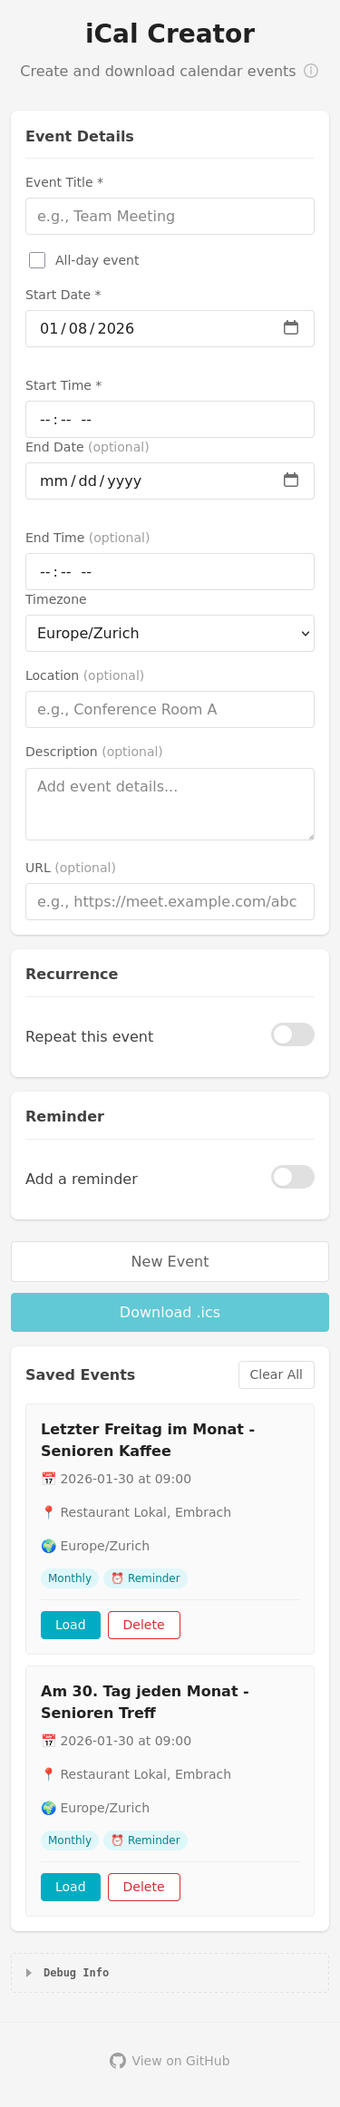
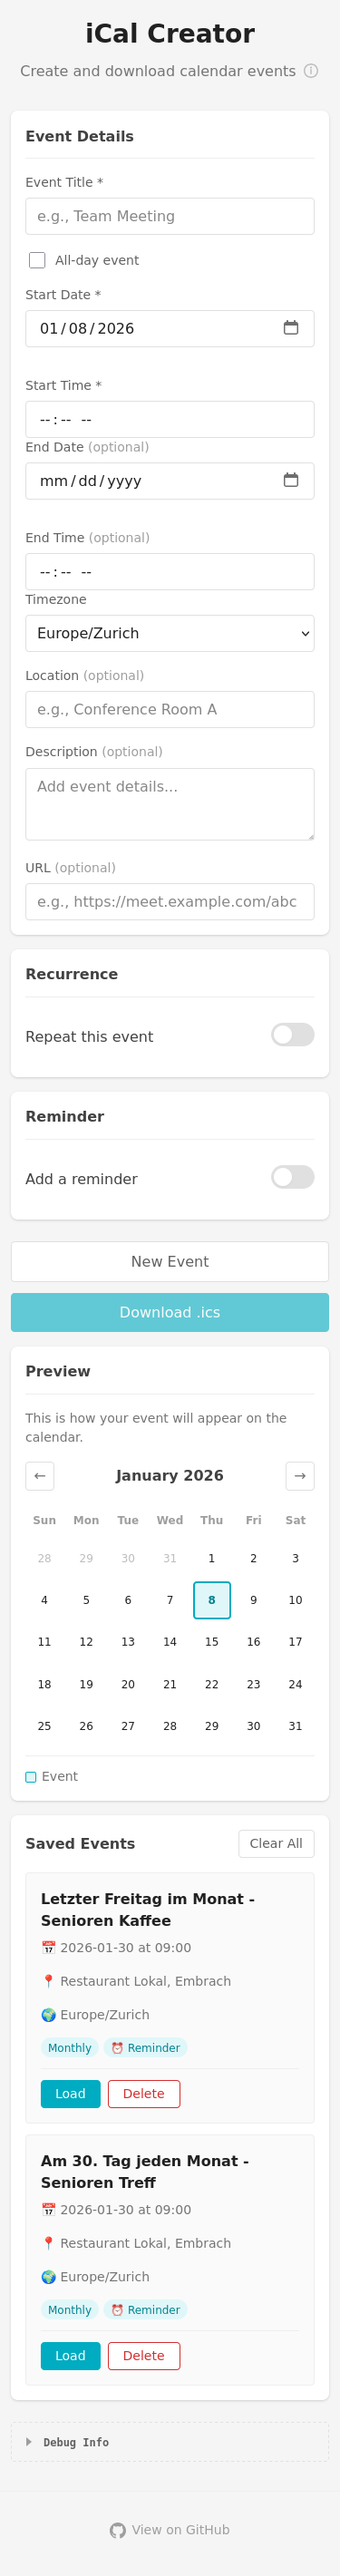
Fix: Restore preview display on initial load and update screenshots
The preview section was not appearing on initial page load or when clicking
"New Event" button due to missing code to show the preview after the refactoring.

Changes:
- Added preview initialization in init() function to show preview on page load
- Modified handleNewEvent() to show preview after resetting form
- Updated screenshots to show correct two-column layout with preview visible

This fix restores functionality from PR #9 that was inadvertently lost during
the refactoring in story-8.

All 83 Playwright tests pass successfully.

diff --git a/script.js b/script.js
@@ -76,6 +76,15 @@
       renderSavedEvents();
       updateDebugInfo();
       updateDownloadButtonState();
+
+      // Show preview on initial load if there's a start date
+      const startDate = document.getElementById('startDate').value;
+      if (startDate) {
+        calculateOccurrences();
+        renderCalendar();
+        previewSection.style.display = 'block';
+        updatePreviewContent(isRecurringCheckbox.checked);
+      }
     }
 
     function updateDebugInfo() {
@@ -597,10 +606,18 @@
         timezoneSelect.value = defaultTz;
       }
 
-      // Hide recurrence options and preview
+      // Hide recurrence options and reminder options
       recurrenceOptions.classList.remove('show');
-      previewSection.style.display = 'none';
       reminderOptions.classList.remove('show');
+
+      // Show preview with default start date
+      const startDate = document.getElementById('startDate').value;
+      if (startDate) {
+        calculateOccurrences();
+        renderCalendar();
+        previewSection.style.display = 'block';
+        updatePreviewContent(isRecurringCheckbox.checked);
+      }
 
       // Clear validation status
       validationStatus.classList.remove('show', 'success', 'error');
